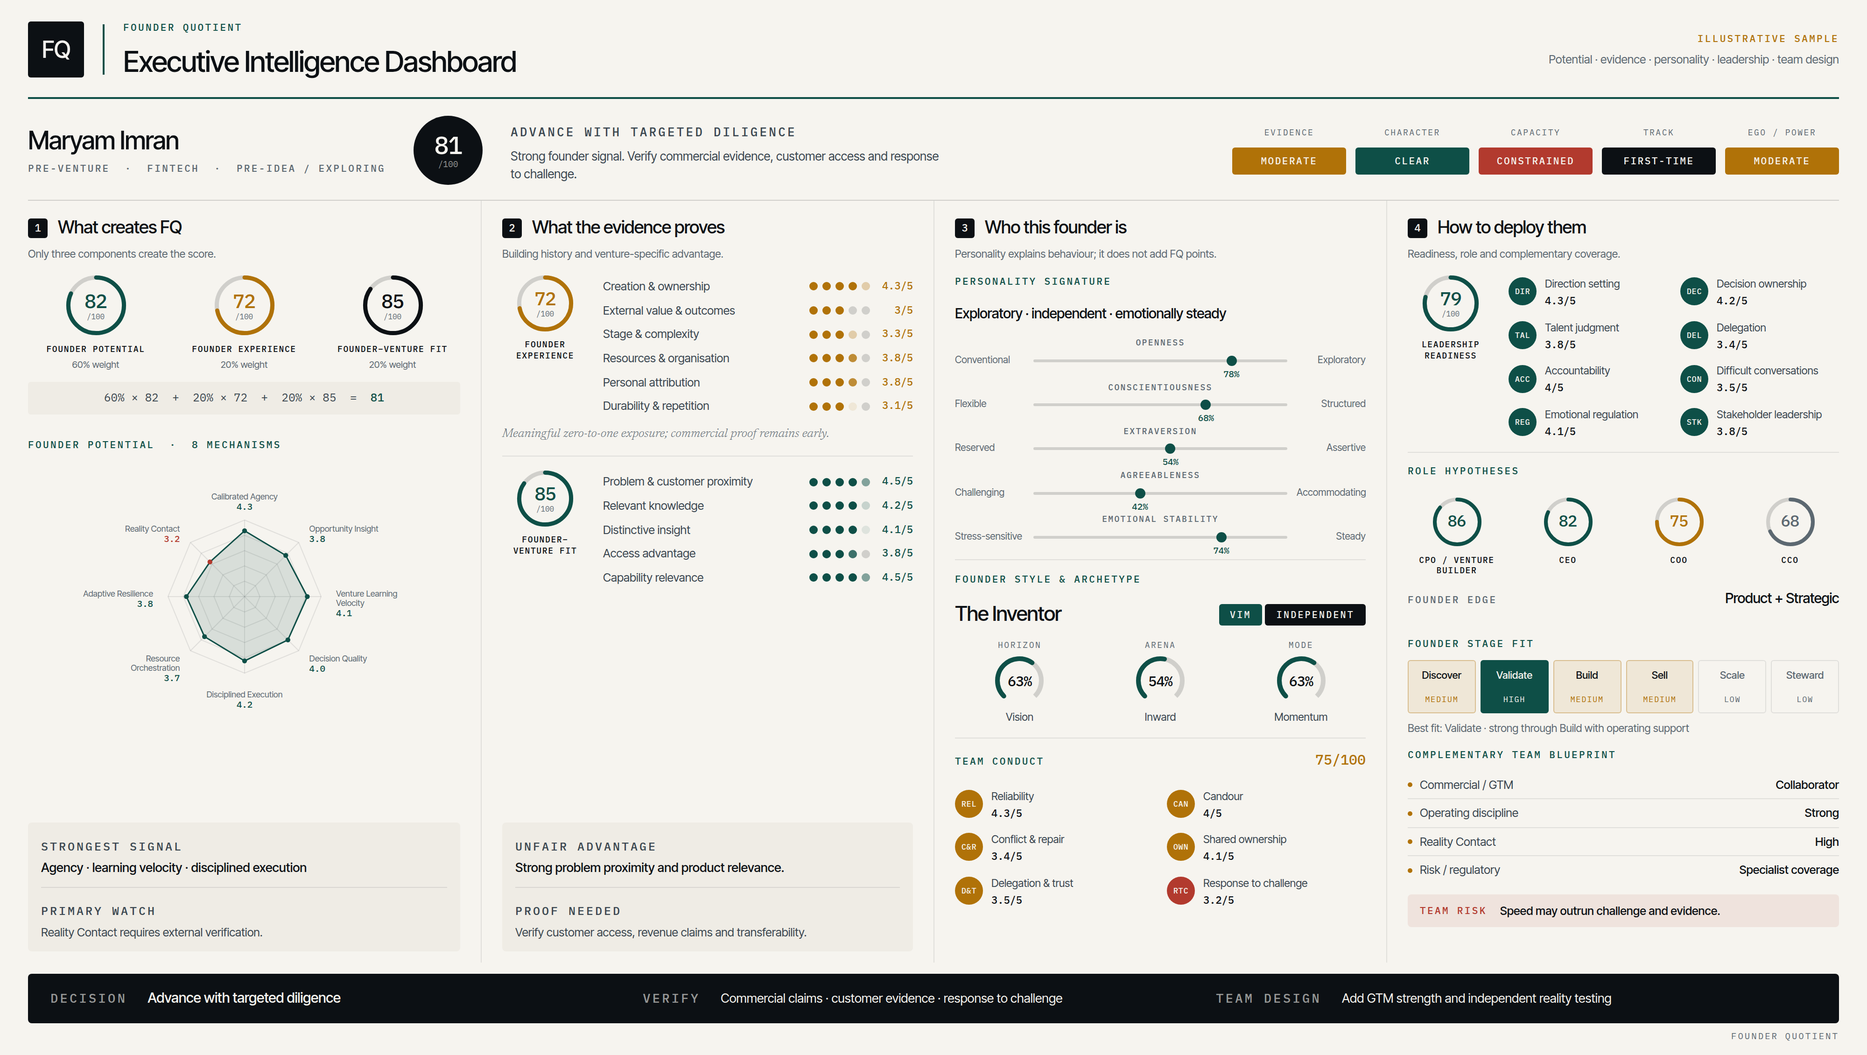
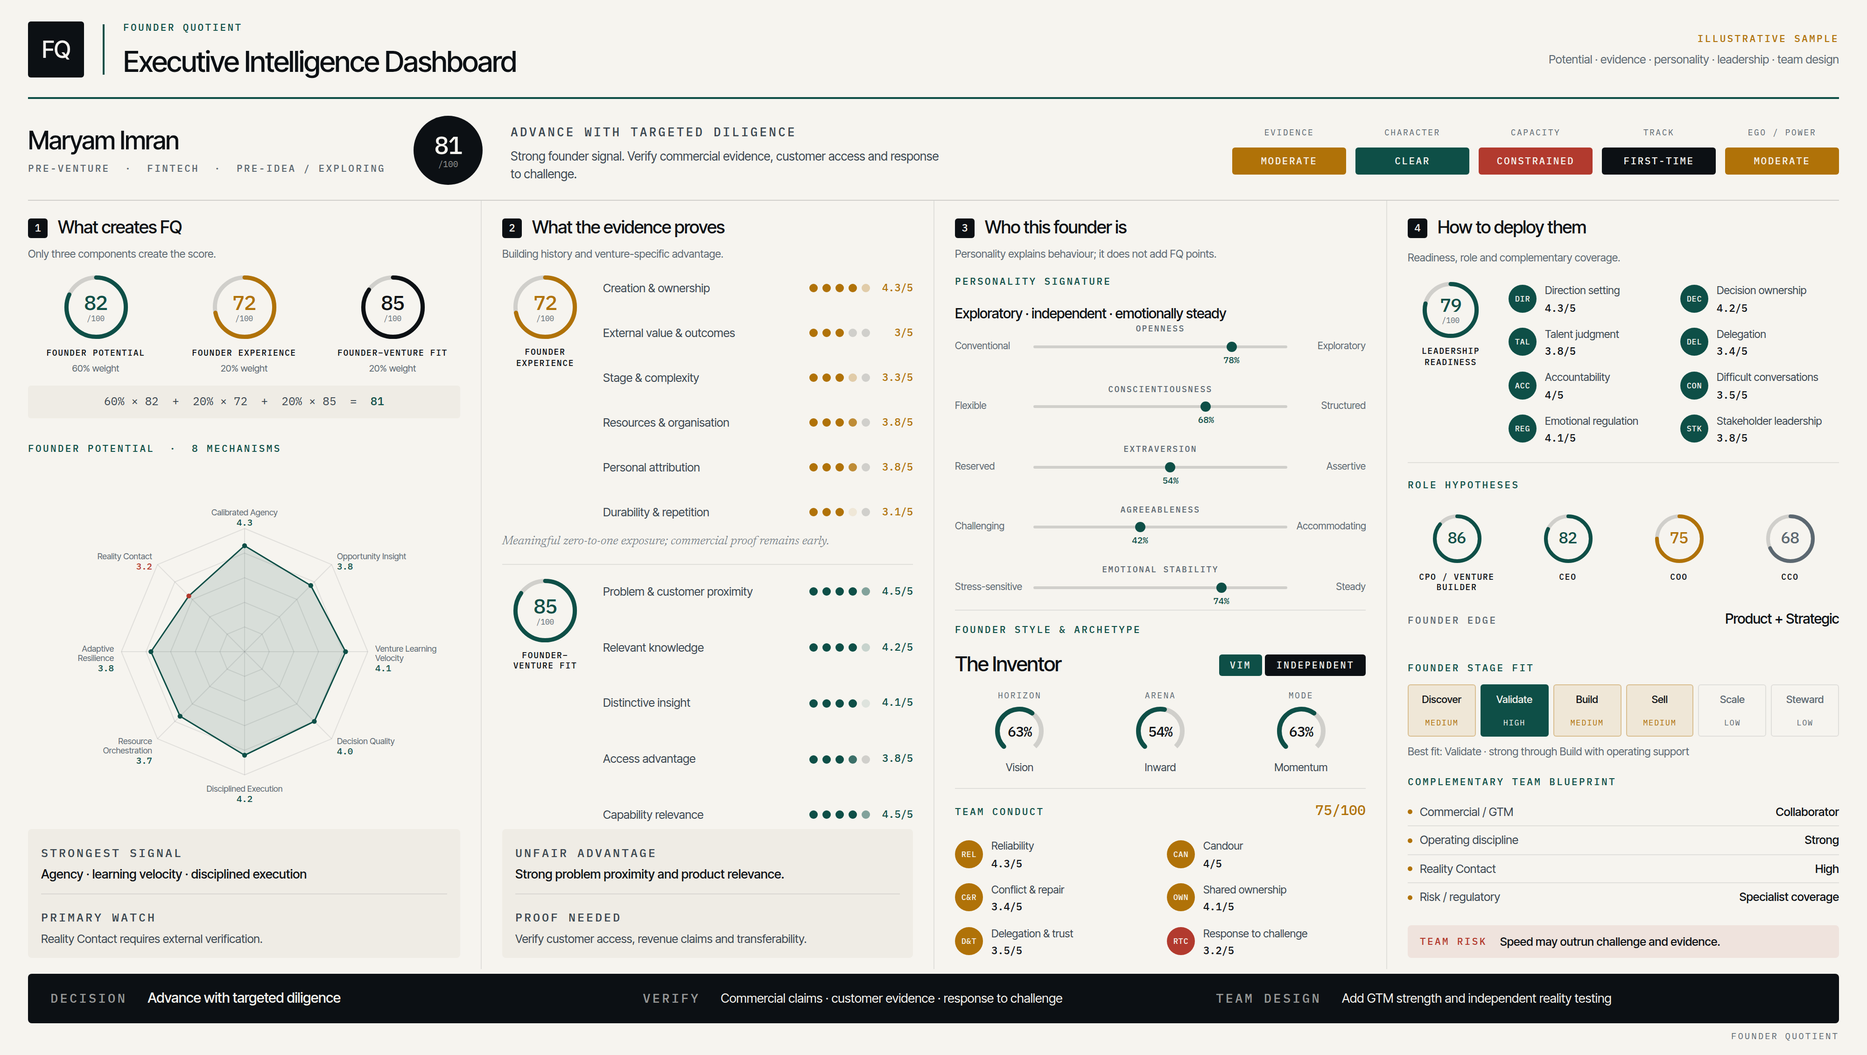
Make the dashboard columns fill their height evenly
The four columns held different amounts of content, so the shorter ones
pooled their slack as a hole above the closing callout — 87px in column
one, 249px in column two.

Slack is now absorbed by the blocks that can carry it rather than left to
collect at the bottom: the radar centres in its own space and is drawn
larger, the two rated lists in column two stretch and spread their rows,
and the personality sliders in column three do the same. Columns
themselves use space-between, so all four bottom out on the same line.

One real bug behind this: .ringside declares align-items: flex-start and
sits later in the stylesheet than the .ringside--grow modifier, so at
equal specificity the base rule won and the lists never stretched at all.
Raised the modifier to .ringside.ringside--grow.

Measured after: every column ends with the same 12px of slack and the
largest gap anywhere is 26px, which is the normal section rhythm.

Claude-Session: https://claude.ai/code/session_01TKxp7i2Qbkt1irfxkgFiAP

diff --git a/founder-code/marketing/03-dashboard.html b/founder-code/marketing/03-dashboard.html
@@ -9,9 +9,9 @@
 <body>
 
 <!-- Layout and content are fixed by the supplied design; this file only
-     carries the Founder Code palette and typefaces.
-     GENERATED — edit marketing/03-dashboard.build.mjs and re-run it, not
-     this file. The rings, gauges and radar are computed geometry. -->
+     carries the Founder Code palette and typefaces. Ring, gauge and radar
+     geometry is generated (see marketing/README.md) — the dash arrays and
+     radar coordinates are computed, not hand-tuned. -->
 
 <div class="dash-poster" id="poster">
 
@@ -58,19 +58,19 @@
       <p class="colsub">Only three components create the score.</p>
 
       <div class="ringrow">
-        <div class="ringcell"><span class="ring" style="width:66px;height:66px"><svg width="66" height="66" viewBox="0 0 66 66"><circle cx="33" cy="33" r="29.8" fill="none" stroke="var(--rule)" stroke-width="4.5"/><circle cx="33" cy="33" r="29.8" fill="none" stroke="var(--brand)" stroke-width="4.5" stroke-linecap="round" stroke-dasharray="186.9" stroke-dashoffset="33.6"/></svg><span class="ring__c"><span class="ring__n" style="font-size:21px;color:var(--brand)">82</span><span class="ring__d">/100</span></span></span>
+        <div class="ringcell"><span class="ring" style="width:70px;height:70px"><svg width="70" height="70" viewBox="0 0 70 70"><circle cx="35" cy="35" r="31.8" fill="none" stroke="var(--rule)" stroke-width="4.5"/><circle cx="35" cy="35" r="31.8" fill="none" stroke="var(--brand)" stroke-width="4.5" stroke-linecap="round" stroke-dasharray="199.5" stroke-dashoffset="35.9"/></svg><span class="ring__c"><span class="ring__n" style="font-size:22px;color:var(--brand)">82</span><span class="ring__d">/100</span></span></span>
           <span class="ringcell__l">Founder Potential</span><span class="ringcell__w">60% weight</span></div>
-        <div class="ringcell"><span class="ring" style="width:66px;height:66px"><svg width="66" height="66" viewBox="0 0 66 66"><circle cx="33" cy="33" r="29.8" fill="none" stroke="var(--rule)" stroke-width="4.5"/><circle cx="33" cy="33" r="29.8" fill="none" stroke="var(--amber)" stroke-width="4.5" stroke-linecap="round" stroke-dasharray="186.9" stroke-dashoffset="52.3"/></svg><span class="ring__c"><span class="ring__n" style="font-size:21px;color:var(--amber)">72</span><span class="ring__d">/100</span></span></span>
+        <div class="ringcell"><span class="ring" style="width:70px;height:70px"><svg width="70" height="70" viewBox="0 0 70 70"><circle cx="35" cy="35" r="31.8" fill="none" stroke="var(--rule)" stroke-width="4.5"/><circle cx="35" cy="35" r="31.8" fill="none" stroke="var(--amber)" stroke-width="4.5" stroke-linecap="round" stroke-dasharray="199.5" stroke-dashoffset="55.9"/></svg><span class="ring__c"><span class="ring__n" style="font-size:22px;color:var(--amber)">72</span><span class="ring__d">/100</span></span></span>
           <span class="ringcell__l">Founder Experience</span><span class="ringcell__w">20% weight</span></div>
-        <div class="ringcell"><span class="ring" style="width:66px;height:66px"><svg width="66" height="66" viewBox="0 0 66 66"><circle cx="33" cy="33" r="29.8" fill="none" stroke="var(--rule)" stroke-width="4.5"/><circle cx="33" cy="33" r="29.8" fill="none" stroke="var(--ink)" stroke-width="4.5" stroke-linecap="round" stroke-dasharray="186.9" stroke-dashoffset="28.0"/></svg><span class="ring__c"><span class="ring__n" style="font-size:21px;color:var(--ink)">85</span><span class="ring__d">/100</span></span></span>
+        <div class="ringcell"><span class="ring" style="width:70px;height:70px"><svg width="70" height="70" viewBox="0 0 70 70"><circle cx="35" cy="35" r="31.8" fill="none" stroke="var(--rule)" stroke-width="4.5"/><circle cx="35" cy="35" r="31.8" fill="none" stroke="var(--ink)" stroke-width="4.5" stroke-linecap="round" stroke-dasharray="199.5" stroke-dashoffset="29.9"/></svg><span class="ring__c"><span class="ring__n" style="font-size:22px;color:var(--ink)">85</span><span class="ring__d">/100</span></span></span>
           <span class="ringcell__l">Founder&ndash;Venture Fit</span><span class="ringcell__w">20% weight</span></div>
       </div>
 
       <p class="formula">60% &times; 82 &nbsp;+&nbsp; 20% &times; 72 &nbsp;+&nbsp; 20% &times; 85 &nbsp;=&nbsp; <b>81</b></p>
 
-      <div class="sec">
+      <div class="sec sec--grow">
         <p class="k">Founder Potential &nbsp;·&nbsp; 8 mechanisms</p>
-        <div class="radar"><svg width="404" height="300" viewBox="0 0 404 300"><polygon class="radar__grid" points="202.0,128.6 213.6,133.4 218.4,145.0 213.6,156.6 202.0,161.4 190.4,156.6 185.6,145.0 190.4,133.4"/><polygon class="radar__grid" points="202.0,112.2 225.2,121.8 234.8,145.0 225.2,168.2 202.0,177.8 178.8,168.2 169.2,145.0 178.8,121.8"/><polygon class="radar__grid" points="202.0,95.8 236.8,110.2 251.2,145.0 236.8,179.8 202.0,194.2 167.2,179.8 152.8,145.0 167.2,110.2"/><polygon class="radar__grid" points="202.0,79.4 248.4,98.6 267.6,145.0 248.4,191.4 202.0,210.6 155.6,191.4 136.4,145.0 155.6,98.6"/><polygon class="radar__grid" points="202.0,63.0 260.0,87.0 284.0,145.0 260.0,203.0 202.0,227.0 144.0,203.0 120.0,145.0 144.0,87.0"/><line class="radar__axis" x1="202" y1="145" x2="202.0" y2="63.0"/><line class="radar__axis" x1="202" y1="145" x2="260.0" y2="87.0"/><line class="radar__axis" x1="202" y1="145" x2="284.0" y2="145.0"/><line class="radar__axis" x1="202" y1="145" x2="260.0" y2="203.0"/><line class="radar__axis" x1="202" y1="145" x2="202.0" y2="227.0"/><line class="radar__axis" x1="202" y1="145" x2="144.0" y2="203.0"/><line class="radar__axis" x1="202" y1="145" x2="120.0" y2="145.0"/><line class="radar__axis" x1="202" y1="145" x2="144.0" y2="87.0"/><polygon class="radar__area" points="202.0,74.5 246.1,100.9 269.2,145.0 248.4,191.4 202.0,213.9 159.1,187.9 139.7,145.0 164.9,107.9"/><circle class="radar__pt" cx="202.0" cy="74.5" r="2.6"/><text class="radar__lbl" x="202.0" y="41.0" text-anchor="middle"><tspan x="202.0" dy="0">Calibrated Agency</tspan></text><text class="radar__val" x="202.0" y="52.0" text-anchor="middle">4.3</text><circle class="radar__pt" cx="246.1" cy="100.9" r="2.6"/><text class="radar__lbl" x="271.3" y="75.7" text-anchor="start"><tspan x="271.3" dy="0">Opportunity Insight</tspan></text><text class="radar__val" x="271.3" y="86.7" text-anchor="start">3.8</text><circle class="radar__pt" cx="269.2" cy="145.0" r="2.6"/><text class="radar__lbl" x="300.0" y="145.0" text-anchor="start"><tspan x="300.0" dy="0">Venture Learning</tspan><tspan x="300.0" dy="10">Velocity</tspan></text><text class="radar__val" x="300.0" y="166.0" text-anchor="start">4.1</text><circle class="radar__pt" cx="248.4" cy="191.4" r="2.6"/><text class="radar__lbl" x="271.3" y="214.3" text-anchor="start"><tspan x="271.3" dy="0">Decision Quality</tspan></text><text class="radar__val" x="271.3" y="225.3" text-anchor="start">4.0</text><circle class="radar__pt" cx="202.0" cy="213.9" r="2.6"/><text class="radar__lbl" x="202.0" y="253.0" text-anchor="middle"><tspan x="202.0" dy="0">Disciplined Execution</tspan></text><text class="radar__val" x="202.0" y="264.0" text-anchor="middle">4.2</text><circle class="radar__pt" cx="159.1" cy="187.9" r="2.6"/><text class="radar__lbl" x="132.7" y="214.3" text-anchor="end"><tspan x="132.7" dy="0">Resource</tspan><tspan x="132.7" dy="10">Orchestration</tspan></text><text class="radar__val" x="132.7" y="235.3" text-anchor="end">3.7</text><circle class="radar__pt" cx="139.7" cy="145.0" r="2.6"/><text class="radar__lbl" x="104.0" y="145.0" text-anchor="end"><tspan x="104.0" dy="0">Adaptive Resilience</tspan></text><text class="radar__val" x="104.0" y="156.0" text-anchor="end">3.8</text><circle class="radar__pt radar__pt--watch" cx="164.9" cy="107.9" r="2.6"/><text class="radar__lbl" x="132.7" y="75.7" text-anchor="end"><tspan x="132.7" dy="0">Reality Contact</tspan></text><text class="radar__val radar__val--watch" x="132.7" y="86.7" text-anchor="end">3.2</text></svg></div>
+        <div class="radar"><svg width="440" height="386" viewBox="0 0 440 386"><polygon class="radar__grid" points="220.0,169.6 238.7,177.3 246.4,196.0 238.7,214.7 220.0,222.4 201.3,214.7 193.6,196.0 201.3,177.3"/><polygon class="radar__grid" points="220.0,143.2 257.3,158.7 272.8,196.0 257.3,233.3 220.0,248.8 182.7,233.3 167.2,196.0 182.7,158.7"/><polygon class="radar__grid" points="220.0,116.8 276.0,140.0 299.2,196.0 276.0,252.0 220.0,275.2 164.0,252.0 140.8,196.0 164.0,140.0"/><polygon class="radar__grid" points="220.0,90.4 294.7,121.3 325.6,196.0 294.7,270.7 220.0,301.6 145.3,270.7 114.4,196.0 145.3,121.3"/><polygon class="radar__grid" points="220.0,64.0 313.3,102.7 352.0,196.0 313.3,289.3 220.0,328.0 126.7,289.3 88.0,196.0 126.7,102.7"/><line class="radar__axis" x1="220" y1="196" x2="220.0" y2="64.0"/><line class="radar__axis" x1="220" y1="196" x2="313.3" y2="102.7"/><line class="radar__axis" x1="220" y1="196" x2="352.0" y2="196.0"/><line class="radar__axis" x1="220" y1="196" x2="313.3" y2="289.3"/><line class="radar__axis" x1="220" y1="196" x2="220.0" y2="328.0"/><line class="radar__axis" x1="220" y1="196" x2="126.7" y2="289.3"/><line class="radar__axis" x1="220" y1="196" x2="88.0" y2="196.0"/><line class="radar__axis" x1="220" y1="196" x2="126.7" y2="102.7"/><polygon class="radar__area" points="220.0,82.5 290.9,125.1 328.2,196.0 294.7,270.7 220.0,306.9 150.9,265.1 119.7,196.0 160.3,136.3"/><circle class="radar__pt" cx="220.0" cy="82.5" r="2.6"/><text class="radar__lbl" x="220.0" y="50.0" text-anchor="middle"><tspan x="220.0" dy="0">Calibrated Agency</tspan></text><text class="radar__val" x="220.0" y="61.0" text-anchor="middle">4.3</text><circle class="radar__pt" cx="290.9" cy="125.1" r="2.6"/><text class="radar__lbl" x="319.0" y="97.0" text-anchor="start"><tspan x="319.0" dy="0">Opportunity Insight</tspan></text><text class="radar__val" x="319.0" y="108.0" text-anchor="start">3.8</text><circle class="radar__pt" cx="328.2" cy="196.0" r="2.6"/><text class="radar__lbl" x="360.0" y="196.0" text-anchor="start"><tspan x="360.0" dy="0">Venture Learning</tspan><tspan x="360.0" dy="10">Velocity</tspan></text><text class="radar__val" x="360.0" y="217.0" text-anchor="start">4.1</text><circle class="radar__pt" cx="294.7" cy="270.7" r="2.6"/><text class="radar__lbl" x="319.0" y="295.0" text-anchor="start"><tspan x="319.0" dy="0">Decision Quality</tspan></text><text class="radar__val" x="319.0" y="306.0" text-anchor="start">4.0</text><circle class="radar__pt" cx="220.0" cy="306.9" r="2.6"/><text class="radar__lbl" x="220.0" y="346.0" text-anchor="middle"><tspan x="220.0" dy="0">Disciplined Execution</tspan></text><text class="radar__val" x="220.0" y="357.0" text-anchor="middle">4.2</text><circle class="radar__pt" cx="150.9" cy="265.1" r="2.6"/><text class="radar__lbl" x="121.0" y="295.0" text-anchor="end"><tspan x="121.0" dy="0">Resource</tspan><tspan x="121.0" dy="10">Orchestration</tspan></text><text class="radar__val" x="121.0" y="316.0" text-anchor="end">3.7</text><circle class="radar__pt" cx="119.7" cy="196.0" r="2.6"/><text class="radar__lbl" x="80.0" y="196.0" text-anchor="end"><tspan x="80.0" dy="0">Adaptive</tspan><tspan x="80.0" dy="10">Resilience</tspan></text><text class="radar__val" x="80.0" y="217.0" text-anchor="end">3.8</text><circle class="radar__pt radar__pt--watch" cx="160.3" cy="136.3" r="2.6"/><text class="radar__lbl" x="121.0" y="97.0" text-anchor="end"><tspan x="121.0" dy="0">Reality Contact</tspan></text><text class="radar__val radar__val--watch" x="121.0" y="108.0" text-anchor="end">3.2</text></svg></div>
       </div>
 
       <div class="callout">
@@ -88,10 +88,10 @@
       <div class="colhead"><span class="colhead__n">2</span><span class="colhead__t">What the evidence proves</span></div>
       <p class="colsub">Building history and venture-specific advantage.</p>
 
-      <div class="ringside">
-        <div class="ringside__l"><span class="ring" style="width:62px;height:62px"><svg width="62" height="62" viewBox="0 0 62 62"><circle cx="31" cy="31" r="27.8" fill="none" stroke="var(--rule)" stroke-width="4.5"/><circle cx="31" cy="31" r="27.8" fill="none" stroke="var(--amber)" stroke-width="4.5" stroke-linecap="round" stroke-dasharray="174.4" stroke-dashoffset="48.8"/></svg><span class="ring__c"><span class="ring__n" style="font-size:20px;color:var(--amber)">72</span><span class="ring__d">/100</span></span></span>
+      <div class="ringside ringside--grow">
+        <div class="ringside__l"><span class="ring" style="width:70px;height:70px"><svg width="70" height="70" viewBox="0 0 70 70"><circle cx="35" cy="35" r="31.8" fill="none" stroke="var(--rule)" stroke-width="4.5"/><circle cx="35" cy="35" r="31.8" fill="none" stroke="var(--amber)" stroke-width="4.5" stroke-linecap="round" stroke-dasharray="199.5" stroke-dashoffset="55.9"/></svg><span class="ring__c"><span class="ring__n" style="font-size:22px;color:var(--amber)">72</span><span class="ring__d">/100</span></span></span>
           <span class="ringcell__l">Founder Experience</span></div>
-        <div class="ringside__b">
+        <div class="ringside__b spread">
           <div class="drow drow--amber"><span class="drow__n">Creation &amp; ownership</span><span class="dots dots--amber"><i></i><i></i><i></i><i></i><i style="opacity:0.3"></i></span><span class="drow__v">4.3/5</span></div>
           <div class="drow drow--amber"><span class="drow__n">External value &amp; outcomes</span><span class="dots dots--amber"><i></i><i></i><i></i><i class="is-off"></i><i class="is-off"></i></span><span class="drow__v">3/5</span></div>
           <div class="drow drow--amber"><span class="drow__n">Stage &amp; complexity</span><span class="dots dots--amber"><i></i><i></i><i></i><i style="opacity:0.3"></i><i class="is-off"></i></span><span class="drow__v">3.3/5</span></div>
@@ -104,10 +104,10 @@
 
       <div class="rule" style="margin:14px 0"></div>
 
-      <div class="ringside">
-        <div class="ringside__l"><span class="ring" style="width:62px;height:62px"><svg width="62" height="62" viewBox="0 0 62 62"><circle cx="31" cy="31" r="27.8" fill="none" stroke="var(--rule)" stroke-width="4.5"/><circle cx="31" cy="31" r="27.8" fill="none" stroke="var(--brand)" stroke-width="4.5" stroke-linecap="round" stroke-dasharray="174.4" stroke-dashoffset="26.2"/></svg><span class="ring__c"><span class="ring__n" style="font-size:20px;color:var(--brand)">85</span><span class="ring__d">/100</span></span></span>
+      <div class="ringside ringside--grow">
+        <div class="ringside__l"><span class="ring" style="width:70px;height:70px"><svg width="70" height="70" viewBox="0 0 70 70"><circle cx="35" cy="35" r="31.8" fill="none" stroke="var(--rule)" stroke-width="4.5"/><circle cx="35" cy="35" r="31.8" fill="none" stroke="var(--brand)" stroke-width="4.5" stroke-linecap="round" stroke-dasharray="199.5" stroke-dashoffset="29.9"/></svg><span class="ring__c"><span class="ring__n" style="font-size:22px;color:var(--brand)">85</span><span class="ring__d">/100</span></span></span>
           <span class="ringcell__l">Founder&ndash;Venture Fit</span></div>
-        <div class="ringside__b">
+        <div class="ringside__b spread">
           <div class="drow"><span class="drow__n">Problem &amp; customer proximity</span><span class="dots "><i></i><i></i><i></i><i></i><i style="opacity:0.5"></i></span><span class="drow__v">4.5/5</span></div>
           <div class="drow"><span class="drow__n">Relevant knowledge</span><span class="dots "><i></i><i></i><i></i><i></i><i style="opacity:0.2"></i></span><span class="drow__v">4.2/5</span></div>
           <div class="drow"><span class="drow__n">Distinctive insight</span><span class="dots "><i></i><i></i><i></i><i></i><i style="opacity:0.1"></i></span><span class="drow__v">4.1/5</span></div>
@@ -134,11 +134,13 @@
       <p class="k">Personality signature</p>
       <p style="font-size:15px;font-weight:500;letter-spacing:-0.02em;margin:6px 0 0">Exploratory &middot; independent &middot; emotionally steady</p>
 
-      <div class="bip"><p class="bip__t">Openness</p><div class="bip__r"><span class="bip__a">Conventional</span><span class="bip__track"><i class="bip__m" style="--at:78%"></i><b class="bip__p" style="--at:78%">78%</b></span><span class="bip__a bip__a--r">Exploratory</span></div></div>
-      <div class="bip"><p class="bip__t">Conscientiousness</p><div class="bip__r"><span class="bip__a">Flexible</span><span class="bip__track"><i class="bip__m" style="--at:68%"></i><b class="bip__p" style="--at:68%">68%</b></span><span class="bip__a bip__a--r">Structured</span></div></div>
-      <div class="bip"><p class="bip__t">Extraversion</p><div class="bip__r"><span class="bip__a">Reserved</span><span class="bip__track"><i class="bip__m" style="--at:54%"></i><b class="bip__p" style="--at:54%">54%</b></span><span class="bip__a bip__a--r">Assertive</span></div></div>
-      <div class="bip"><p class="bip__t">Agreeableness</p><div class="bip__r"><span class="bip__a">Challenging</span><span class="bip__track"><i class="bip__m" style="--at:42%"></i><b class="bip__p" style="--at:42%">42%</b></span><span class="bip__a bip__a--r">Accommodating</span></div></div>
-      <div class="bip"><p class="bip__t">Emotional stability</p><div class="bip__r"><span class="bip__a">Stress-sensitive</span><span class="bip__track"><i class="bip__m" style="--at:74%"></i><b class="bip__p" style="--at:74%">74%</b></span><span class="bip__a bip__a--r">Steady</span></div></div>
+      <div class="bips">
+        <div class="bip"><p class="bip__t">Openness</p><div class="bip__r"><span class="bip__a">Conventional</span><span class="bip__track"><i class="bip__m" style="--at:78%"></i><b class="bip__p" style="--at:78%">78%</b></span><span class="bip__a bip__a--r">Exploratory</span></div></div>
+        <div class="bip"><p class="bip__t">Conscientiousness</p><div class="bip__r"><span class="bip__a">Flexible</span><span class="bip__track"><i class="bip__m" style="--at:68%"></i><b class="bip__p" style="--at:68%">68%</b></span><span class="bip__a bip__a--r">Structured</span></div></div>
+        <div class="bip"><p class="bip__t">Extraversion</p><div class="bip__r"><span class="bip__a">Reserved</span><span class="bip__track"><i class="bip__m" style="--at:54%"></i><b class="bip__p" style="--at:54%">54%</b></span><span class="bip__a bip__a--r">Assertive</span></div></div>
+        <div class="bip"><p class="bip__t">Agreeableness</p><div class="bip__r"><span class="bip__a">Challenging</span><span class="bip__track"><i class="bip__m" style="--at:42%"></i><b class="bip__p" style="--at:42%">42%</b></span><span class="bip__a bip__a--r">Accommodating</span></div></div>
+        <div class="bip"><p class="bip__t">Emotional stability</p><div class="bip__r"><span class="bip__a">Stress-sensitive</span><span class="bip__track"><i class="bip__m" style="--at:74%"></i><b class="bip__p" style="--at:74%">74%</b></span><span class="bip__a bip__a--r">Steady</span></div></div>
+      </div>
 
       <div class="rule" style="margin:16px 0 13px"></div>
 

diff --git a/founder-code/marketing/dashboard.css b/founder-code/marketing/dashboard.css
@@ -152,7 +152,28 @@ body {
   border-top: 1px solid var(--rule);
   min-height: 0;
 }
-.dcol { padding: 16px 22px 12px; border-left: 1px solid var(--rule-soft); display: flex; flex-direction: column; }
+.dcol {
+  padding: 16px 22px 12px;
+  border-left: 1px solid var(--rule-soft);
+  display: flex;
+  flex-direction: column;
+  justify-content: space-between;   /* nothing ends short of the baseline */
+}
+
+/* ------------------------------------------------------------
+   FILLING THE COLUMN
+   Columns hold different amounts of content, so slack is absorbed
+   by the blocks that can carry it — the radar centres in its own
+   space, and long rated lists spread their rows — instead of
+   pooling as a hole above the closing callout.
+   ------------------------------------------------------------ */
+.sec--grow { flex: 1; min-height: 0; display: flex; flex-direction: column; }
+.sec--grow .radar { flex: 1; }
+.ringside.ringside--grow { flex: 1; min-height: 0; align-items: stretch; }
+.ringside.ringside--grow .ringside__l { align-self: flex-start; }
+.spread { display: flex; flex-direction: column; justify-content: space-between; }
+.bips { flex: 1; min-height: 0; display: flex; flex-direction: column; justify-content: space-between; }
+.bips .bip { margin-top: 0; }
 .dcol:first-child { border-left: 0; padding-left: 0; }
 .dcol:last-child { padding-right: 0; }
 
@@ -209,7 +230,7 @@ body {
 
 /* --- Dot ratings ------------------------------------------------------- */
 
-.drow { display: grid; grid-template-columns: minmax(0, 1fr) auto auto; align-items: center; gap: 12px; padding: 5px 0; }
+.drow { display: grid; grid-template-columns: minmax(0, 1fr) auto auto; align-items: center; gap: 12px; padding: 7px 0; }
 .drow__n { font-size: 12.5px; color: var(--text-2); line-height: 1.25; }
 .dots { display: flex; gap: 5px; }
 .dots i { width: 9px; height: 9px; border-radius: 50%; background: var(--dot, var(--brand)); }
